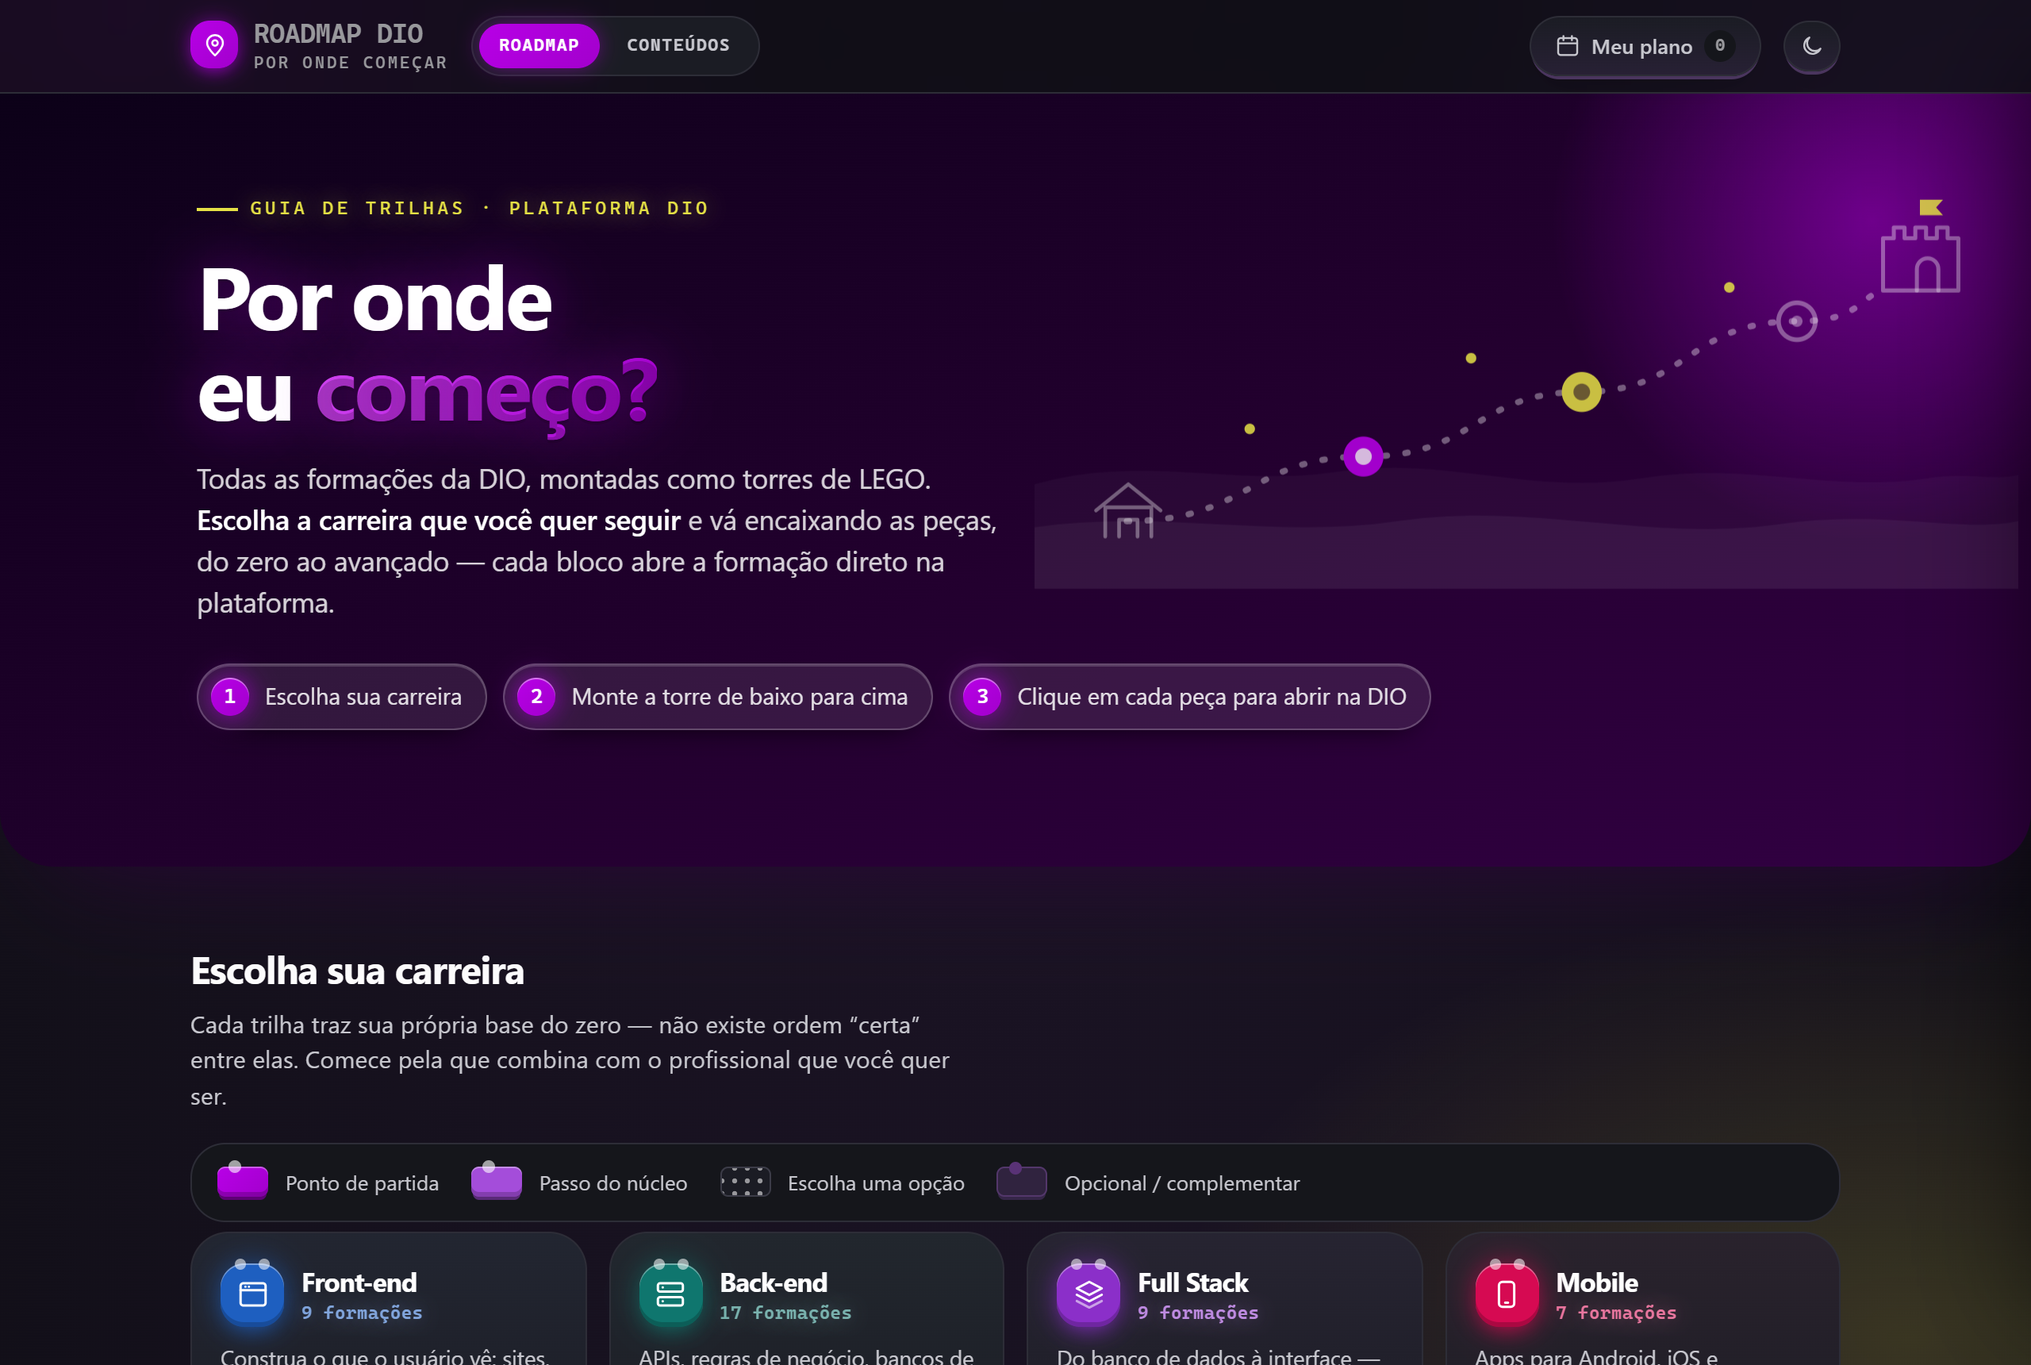
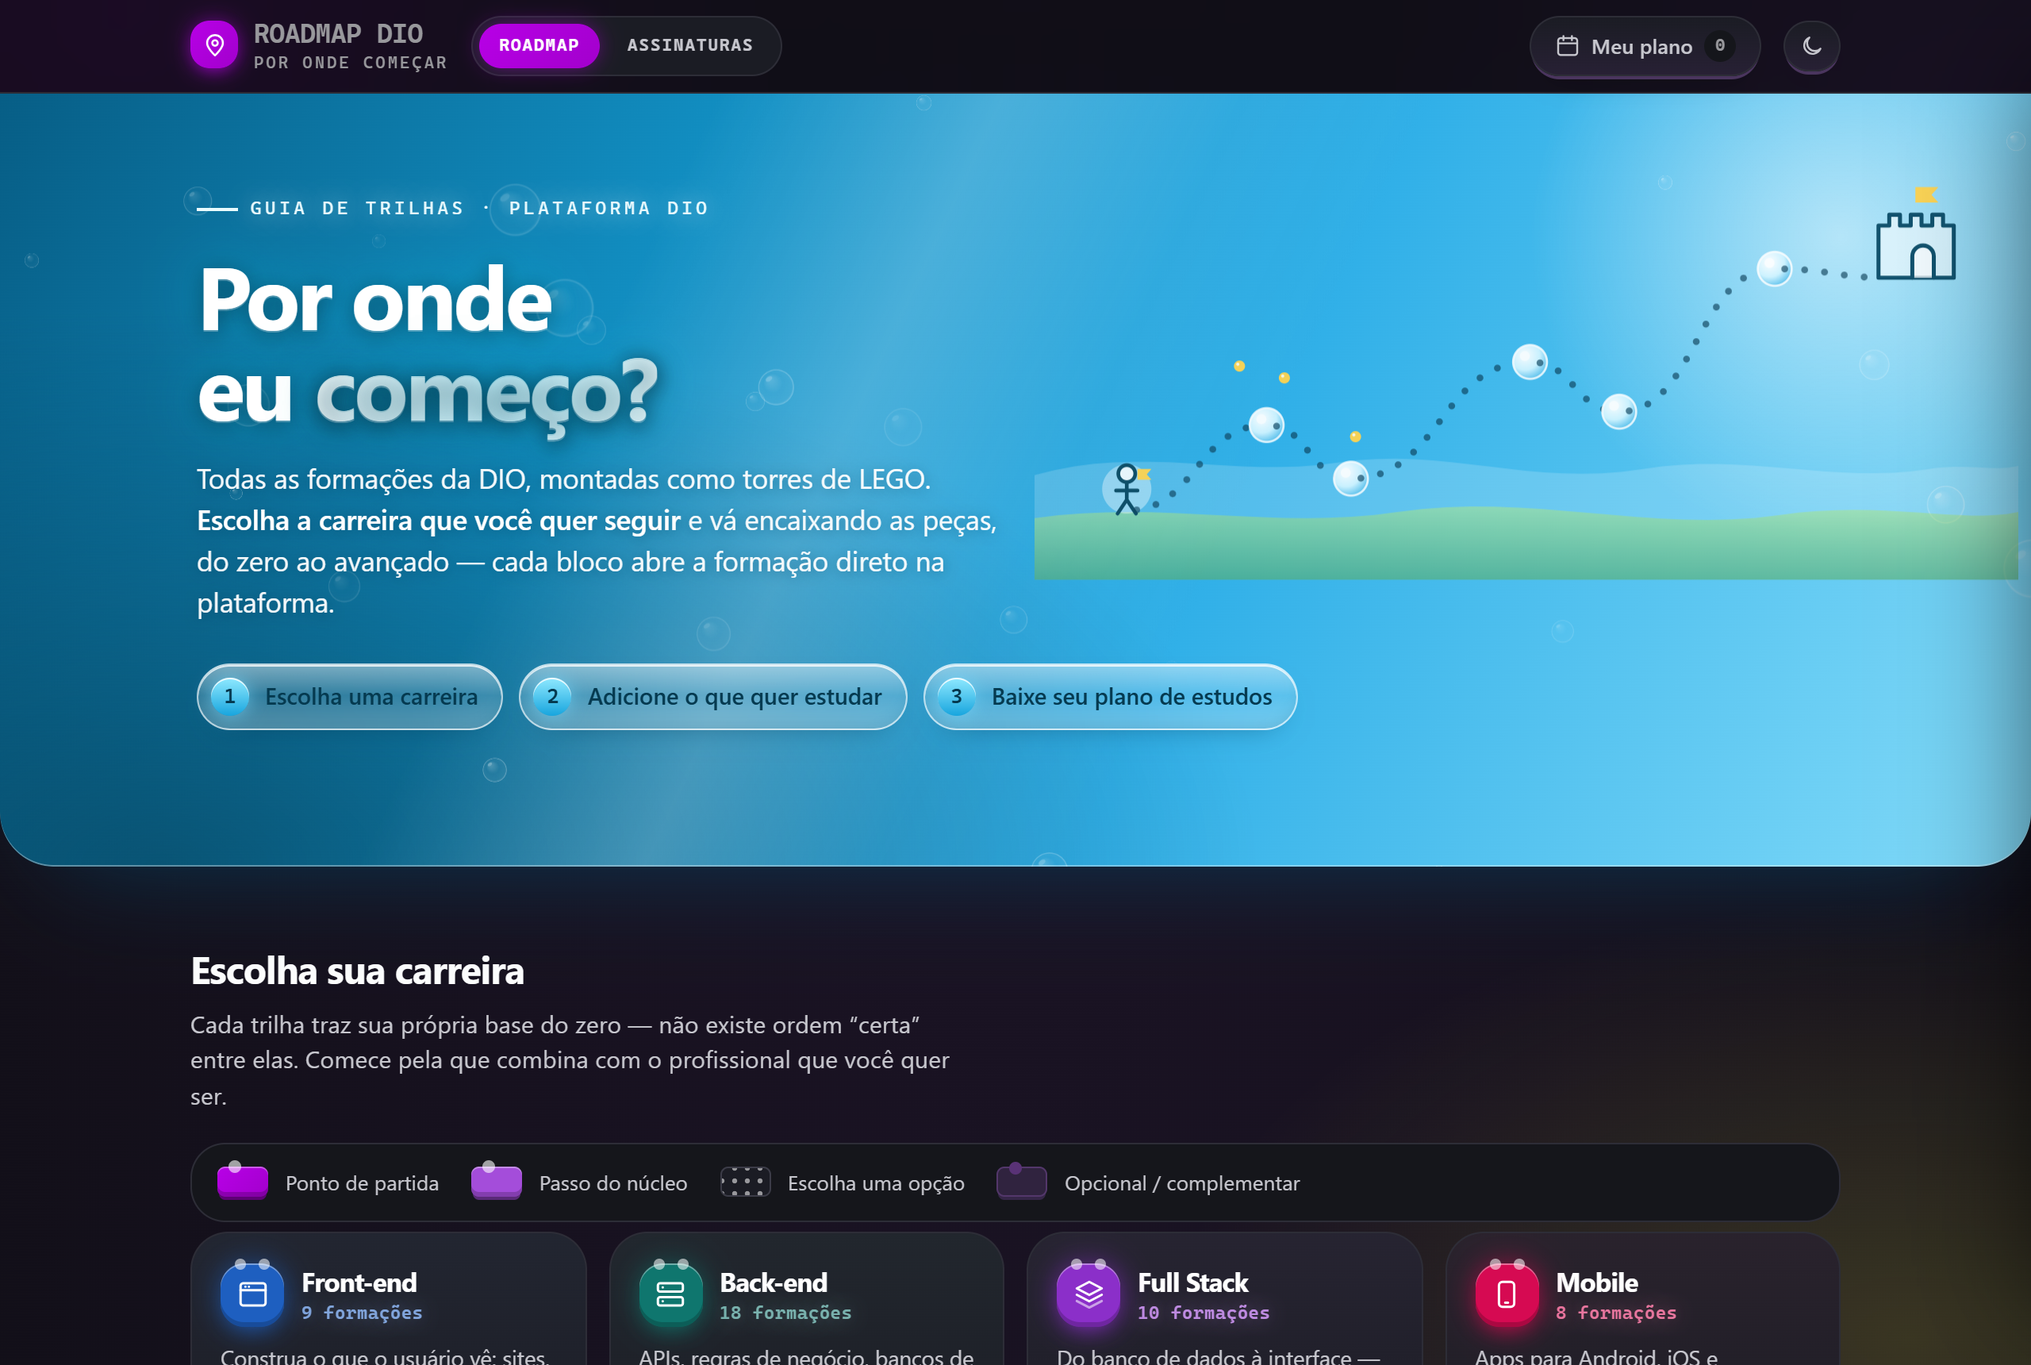
Hero vivo: roadmap animado estilo Mario World + bolhas + Frutiger Aero
- Trilha gerada dinamicamente: herói no início, castelo no fim, fases aleatórias;
  pontos aparecem um a um com pop suave e a trilha regenera em loop
- Partículas: bolhas glossy em canvas atrás do banner (pausam com aba oculta)
- Visual Frutiger Aero aqua/Dreamcast só no hero: céu glossy, sol, gloss sweep,
  chips de vidro; texto branco legível (canto do texto escurecido)
- Reduced-motion: trilha estática completa, sem ciclo e sem partículas
- Corrige transform attr vs CSS (.mnode) separando posição (grupo externo) do pop
- Atualiza prints do README

Claude-Session: https://claude.ai/code/session_01NDBp3KGpNdm6GVd3E32CQM

diff --git a/index.html b/index.html
@@ -77,16 +77,21 @@
   .icon-btn{padding:7px;width:36px;justify-content:center}
 
   /* ---------- hero ---------- */
+  /* hero Frutiger Aero: céu aqua glossy, escuro no canto do texto p/ legibilidade */
   .hero{position:relative;width:100%;margin:0;padding:64px 0 58px;border-radius:0 0 34px 34px;overflow:hidden;
-    background:linear-gradient(155deg,#0C0118 0%,#23002F 55%,#320043 100%);color:#fff;
-    box-shadow:0 30px 70px -38px rgba(48,0,64,.9)}
+    background:
+      radial-gradient(90% 120% at 8% 100%, rgba(4,48,68,.55), transparent 60%),
+      linear-gradient(115deg,#075E86 0%,#1290C4 32%,#31B0E8 60%,#83DBF9 100%);
+    color:#fff;
+    box-shadow:0 30px 70px -38px rgba(7,64,96,.9), inset 0 -1px 0 rgba(255,255,255,.35)}
   .hero-in{position:relative;z-index:2;max-width:1080px;margin:0 auto;padding:0 24px}
   .hero-in>*{position:relative}
-  .hero::before{content:"";position:absolute;right:-130px;top:-150px;width:460px;height:460px;border-radius:50%;
-    background:radial-gradient(circle,rgba(184,0,231,.5),transparent 62%);pointer-events:none;z-index:1}
-  .hero-deco{position:absolute;right:8px;top:22px;bottom:auto;width:min(620px,50%);height:auto;opacity:.85;pointer-events:none;color:rgba(255,255,255,.42);z-index:1}
-  .hero-deco .mag{color:var(--mag-a)}
-  .hero-deco .gold{color:var(--gold)}
+  .hero::before{content:"";position:absolute;right:-110px;top:-140px;width:460px;height:460px;border-radius:50%;
+    background:radial-gradient(circle,rgba(255,255,255,.55),transparent 60%);pointer-events:none;z-index:1}
+  .hero::after{content:"";position:absolute;inset:0;z-index:1;pointer-events:none;
+    background:linear-gradient(115deg,transparent 30%,rgba(255,255,255,.20) 42%,rgba(255,255,255,.04) 52%,transparent 60%)}
+  .hero-bubbles{position:absolute;inset:0;width:100%;height:100%;z-index:0;pointer-events:none}
+  .hero-deco{position:absolute;right:8px;top:22px;bottom:auto;width:min(620px,50%);height:auto;opacity:.95;pointer-events:none;color:rgba(7,58,84,.55);z-index:1}
   @media (max-width:820px){.hero-deco{display:none}}
   .eyebrow{font-family:var(--mono);font-size:.72rem;letter-spacing:.2em;text-transform:uppercase;
     color:var(--gold);display:flex;align-items:center;gap:8px;margin-bottom:16px}
@@ -350,6 +355,7 @@
   @media (prefers-reduced-motion:reduce){
     .hero-deco,footer a.dio,.brick.base{animation:none !important}
     .card:hover,.tbtn:hover,.tbtn:active{transform:none !important}
+    .mnode,.mdot{transition:none !important}
   }
 
   /* ============================================================
@@ -508,6 +514,33 @@
     .topbar-in{flex-wrap:wrap}
     .tabs{order:10;width:100%;justify-content:center}
   }
+
+  /* ============================================================
+     AERO HERO — overrides Frutiger Aero (só no hero) + mapa vivo
+     ============================================================ */
+  .hero h1{text-shadow:0 1px 0 rgba(255,255,255,.28),0 2px 14px rgba(3,48,66,.6),0 0 34px rgba(0,229,255,.35)}
+  .hero h1 .u{background:linear-gradient(100deg,#FFFFFF,#BDF0FF 55%,#E9FBFF);-webkit-background-clip:text;background-clip:text;
+    color:transparent;filter:drop-shadow(0 2px 6px rgba(4,60,84,.65))}
+  .hero .eyebrow{color:#EAFBFF;text-shadow:0 0 14px rgba(255,255,255,.65)}
+  .hero .eyebrow::before{background:#EAFBFF}
+  .hero .lede{color:rgba(255,255,255,.95);text-shadow:0 1px 8px rgba(6,58,84,.5)}
+  .hero .step-chip{color:#053A50;font-weight:600;border:1px solid rgba(255,255,255,.6);
+    background:linear-gradient(180deg,rgba(255,255,255,.45),rgba(255,255,255,.16) 48%,rgba(255,255,255,.3));
+    -webkit-backdrop-filter:blur(6px);backdrop-filter:blur(6px);
+    box-shadow:inset 0 1px 0 rgba(255,255,255,.8),inset 0 -6px 12px -8px rgba(6,90,120,.35),0 8px 18px -12px rgba(4,60,90,.55)}
+  .hero .step-chip .n{background:linear-gradient(180deg,#8FE9FF,#18A5DE);color:#04384E;
+    box-shadow:inset 0 1px 0 rgba(255,255,255,.85),0 0 12px rgba(120,220,255,.7)}
+
+  /* mapa vivo: nós/pontinhos aparecem com pop suave */
+  .mnode,.mdot{opacity:0;transform:scale(.2);transform-box:fill-box;transform-origin:center;
+    transition:transform .38s cubic-bezier(.34,1.56,.64,1),opacity .22s ease}
+  .mdot{transition-duration:.3s,.18s}
+  .mnode.on,.mdot.on{opacity:1;transform:scale(1)}
+  #mapTrail{transition:opacity .4s ease}
+  #mapTrail.out{opacity:0}
+  .spark{opacity:0;transform-box:fill-box;transform-origin:center}
+  .spark.on{animation:sparkFly .7s ease-out forwards}
+  @keyframes sparkFly{from{opacity:1;transform:translate(0,0)}to{opacity:0;transform:translate(var(--dx),var(--dy)) scale(.4)}}
 </style>
 
 <header class="topbar">
@@ -541,44 +574,27 @@
 </header>
 
 <section class="hero">
+    <canvas class="hero-bubbles" id="heroBubbles" aria-hidden="true"></canvas>
     <svg class="hero-deco" viewBox="0 0 640 300" fill="none" aria-hidden="true">
-      <!-- terreno: colinas do mapa -->
-      <path d="M0 300 V232 C 70 212 130 234 196 224 C 268 213 322 240 396 228 C 462 217 520 238 582 228 C 606 224 624 230 640 226 V300 Z" fill="currentColor" opacity=".08"/>
-      <path d="M0 300 V260 C 84 248 156 268 236 256 C 322 243 402 270 484 258 C 554 248 602 264 640 256 V300 Z" fill="currentColor" opacity=".13"/>
-      <!-- trilha sinuosa pontilhada (world map) -->
-      <path d="M60 256 C 140 256 140 214 214 214 C 288 214 286 172 356 172 C 426 172 424 126 496 126 C 540 126 536 108 554 106"
-        stroke="currentColor" stroke-width="4" stroke-dasharray="1.5 12" stroke-linecap="round"/>
-      <!-- casa inicial (ponto de partida) -->
-      <g stroke="currentColor" stroke-width="2.4" stroke-linejoin="round" stroke-linecap="round">
-        <path d="M46 266 v-19 h30 v19"/>
-        <path d="M40 249 l21 -17 21 17"/>
-        <path d="M55 266 v-11 h12 v11"/>
+      <defs>
+        <radialGradient id="orbG" cx=".35" cy=".3" r=".8">
+          <stop offset="0" stop-color="#fff"/><stop offset=".55" stop-color="#CFF3FF"/><stop offset="1" stop-color="#45B7E8"/>
+        </radialGradient>
+        <linearGradient id="hillG" x1="0" y1="0" x2="0" y2="1">
+          <stop offset="0" stop-color="#B7EC7A"/><stop offset="1" stop-color="#3E9E45"/>
+        </linearGradient>
+        <!-- castelo com origem no fim da trilha (deslocado de 560,106) -->
+        <g id="castleTpl" stroke="#0A4B66" stroke-width="2.6" stroke-linejoin="round" stroke-linecap="round">
+          <path d="M-8 0 V-34 h7 v-7 h7 v7 h7 v-7 h7 v7 h7 v-7 h7 v7 h7 V0 Z" fill="rgba(255,255,255,.6)"/>
+          <path d="M14 0 V-14 a7 7 0 0 1 14 0 v14" fill="rgba(255,255,255,.75)"/>
+          <path d="M16 -41 v-18 h15 l-4.5 5 4.5 5 h-15" fill="#FFD34D" stroke="none"/>
+        </g>
+      </defs>
+      <g id="mapTerrain">
+        <path d="M0 300 V232 C 70 212 130 234 196 224 C 268 213 322 240 396 228 C 462 217 520 238 582 228 C 606 224 624 230 640 226 V300 Z" fill="#fff" opacity=".18"/>
+        <path d="M0 300 V260 C 84 248 156 268 236 256 C 322 243 402 270 484 258 C 554 248 602 264 640 256 V300 Z" fill="url(#hillG)" opacity=".5"/>
       </g>
-      <!-- fase concluída A -->
-      <g class="mag">
-        <circle cx="214" cy="214" r="13" fill="currentColor"/>
-        <circle cx="214" cy="214" r="5.4" fill="#fff" opacity=".85"/>
-      </g>
-      <!-- fase concluída B -->
-      <g class="gold">
-        <circle cx="356" cy="172" r="13" fill="currentColor"/>
-        <circle cx="356" cy="172" r="5.4" fill="#1A0322" opacity=".55"/>
-      </g>
-      <!-- próxima fase C -->
-      <circle cx="496" cy="126" r="12" stroke="currentColor" stroke-width="3"/>
-      <circle cx="496" cy="126" r="3.6" fill="currentColor"/>
-      <!-- moedas flutuantes -->
-      <g class="gold" fill="currentColor">
-        <circle cx="140" cy="196" r="3.4"/>
-        <circle cx="284" cy="150" r="3.4"/>
-        <circle cx="452" cy="104" r="3.4"/>
-      </g>
-      <!-- castelo (destino final) -->
-      <g stroke="currentColor" stroke-width="2.6" stroke-linejoin="round" stroke-linecap="round">
-        <path d="M552 106 V72 h7 v-7 h7 v7 h7 v-7 h7 v7 h7 v-7 h7 v7 h7 V106 Z"/>
-        <path d="M574 106 V92 a7 7 0 0 1 14 0 v14"/>
-      </g>
-      <path class="gold" d="M576 65 v-18 h15 l-4.5 5 4.5 5 h-15" fill="currentColor"/>
+      <g id="mapTrail"></g>
     </svg>
 
     <div class="hero-in">
@@ -1210,5 +1226,208 @@ backLink.addEventListener('click',function(){
   });
 
   syncButtons(); updateCount();
+})();
+
+/* ---------- hero: mapa vivo estilo Mario World ---------- */
+(function(){
+  var SVGNS='http://www.w3.org/2000/svg';
+  var layer=document.getElementById('mapTrail');
+  if(!layer) return;
+  var reduce=window.matchMedia&&window.matchMedia('(prefers-reduced-motion:reduce)').matches;
+  var mqSmall=window.matchMedia?window.matchMedia('(max-width:820px)'):{matches:false};
+
+  var timers=[];
+  function later(fn,ms){ timers.push(setTimeout(fn,ms)); }
+  function stopMap(){ timers.forEach(clearTimeout); timers=[]; }
+
+  function clamp(v,a,b){ return v<a?a:(v>b?b:v); }
+  function genWaypoints(){
+    var N=3+Math.floor(Math.random()*3);
+    var sx=60,sy=255,ex=545+Math.random()*25,ey=98+Math.random()*14;
+    var pts=[{x:sx,y:sy}],i;
+    for(i=1;i<=N;i++){
+      var t=i/(N+1);
+      var x=sx+t*(ex-sx)+(Math.random()*44-22);
+      var base=sy+t*(ey-sy);
+      var dir=(i%2?-1:1);
+      pts.push({x:x,y:clamp(base+dir*(18+Math.random()*20),70,265)});
+    }
+    pts.push({x:ex,y:ey});
+    for(i=1;i<pts.length;i++) if(pts[i].x-pts[i-1].x<48) pts[i].x=pts[i-1].x+48;
+    return pts;
+  }
+  function segD(a,b){ var mx=(a.x+b.x)/2;
+    return 'M'+a.x+' '+a.y+' C '+mx+' '+a.y+', '+mx+' '+b.y+', '+b.x+' '+b.y; }
+  function el(name,attrs,cls){
+    var e=document.createElementNS(SVGNS,name);
+    for(var k in attrs) e.setAttribute(k,attrs[k]);
+    if(cls) e.setAttribute('class',cls);
+    return e;
+  }
+  function sampleDots(d){
+    var p=el('path',{d:d,fill:'none',stroke:'none'});
+    layer.appendChild(p);
+    var L=p.getTotalLength(),out=[],s;
+    for(s=6.5;s<L-6;s+=13){ var pt=p.getPointAtLength(s); out.push({x:pt.x,y:pt.y}); }
+    return out;
+  }
+
+  function buildTrail(pts){
+    var built={segDots:[],orbs:[],coins:[],sparks:[]};
+    /* herói no início — posição no grupo externo (atributo), pop no interno
+       (a classe .mnode usa transform via CSS, que sobrepõe o atributo transform) */
+    var heroPos=el('g',{transform:'translate('+pts[0].x+' '+pts[0].y+')'});
+    var hero=el('g',{stroke:'#06465F','stroke-width':'2.4','stroke-linecap':'round','stroke-linejoin':'round',fill:'none'},'mnode');
+    hero.appendChild(el('circle',{cx:0,cy:-14,r:16,fill:'rgba(255,255,255,.4)',stroke:'none'}));
+    hero.appendChild(el('circle',{cx:0,cy:-24,r:5.5,fill:'rgba(255,255,255,.85)'}));
+    hero.appendChild(el('path',{d:'M0 -18 v11 M0 -7 l-6 9 M0 -7 l6 9 M-7 -13 h14'}));
+    hero.appendChild(el('path',{d:'M7 -13 v-14 h9 l-3 3.5 3 3.5 h-9',fill:'#FFD34D',stroke:'none'}));
+    heroPos.appendChild(hero); layer.appendChild(heroPos); built.hero=hero;
+
+    var i,j;
+    for(i=0;i<pts.length-1;i++){
+      var dots=sampleDots(segD(pts[i],pts[i+1])),dotEls=[];
+      for(j=0;j<dots.length;j++){
+        var dot=el('circle',{cx:dots[j].x,cy:dots[j].y,r:2.2,fill:'rgba(7,58,84,.65)'},'mdot');
+        layer.appendChild(dot); dotEls.push(dot);
+      }
+      built.segDots.push(dotEls);
+      if(i<pts.length-2){
+        var orb=el('g',{},'mnode');
+        orb.appendChild(el('circle',{cx:pts[i+1].x,cy:pts[i+1].y,r:11,fill:'url(#orbG)',stroke:'rgba(255,255,255,.85)','stroke-width':'1.4'}));
+        orb.appendChild(el('circle',{cx:pts[i+1].x-3.4,cy:pts[i+1].y-3.8,r:3.2,fill:'#fff',opacity:'.9'}));
+        layer.appendChild(orb); built.orbs.push(orb);
+      }
+    }
+    /* moedas: 2-3 acima de pontos aleatórios do meio */
+    var coinN=2+Math.floor(Math.random()*2);
+    for(i=0;i<coinN;i++){
+      var wp=pts[1+Math.floor(Math.random()*(pts.length-2))];
+      var cx=wp.x+(Math.random()*46-23),cy=wp.y-(24+Math.random()*20);
+      var coin=el('g',{},'mnode');
+      coin.appendChild(el('circle',{cx:cx,cy:cy,r:3.6,fill:'#FFD34D'}));
+      coin.appendChild(el('circle',{cx:cx-1.1,cy:cy-1.2,r:1,fill:'#fff',opacity:'.85'}));
+      layer.appendChild(coin); built.coins.push(coin);
+    }
+    /* castelo no fim + sparks (mesmo padrão: posição fora, pop dentro) */
+    var end=pts[pts.length-1];
+    var castlePos=el('g',{transform:'translate('+end.x+' '+end.y+')'});
+    var castle=el('use',{},'mnode');
+    castle.setAttribute('href','#castleTpl');
+    castle.setAttributeNS('http://www.w3.org/1999/xlink','xlink:href','#castleTpl');
+    castlePos.appendChild(castle); layer.appendChild(castlePos); built.castle=castle;
+    for(i=0;i<6;i++){
+      var ang=Math.PI*2*i/6, dist=26+Math.random()*14;
+      var sp=el('circle',{cx:end.x,cy:end.y-22,r:2.6,fill:'#FFD34D'},'spark');
+      sp.style.setProperty('--dx',Math.cos(ang)*dist+'px');
+      sp.style.setProperty('--dy',(Math.sin(ang)*dist-8)+'px');
+      layer.appendChild(sp); built.sparks.push(sp);
+    }
+    return built;
+  }
+  function on(e){ e.classList.add('on'); }
+
+  function runCycle(){
+    stopMap();
+    layer.classList.remove('out');
+    layer.innerHTML='';
+    var pts=genWaypoints();
+    var b=buildTrail(pts);
+    var t=200;
+    later(function(){ on(b.hero); },t);
+    t+=300;
+    b.segDots.forEach(function(dotEls,i){
+      t+=150;
+      dotEls.forEach(function(dot,j){
+        (function(dd,tt){ later(function(){ on(dd); },tt); })(dot,t+j*28);
+      });
+      t+=dotEls.length*28+60;
+      if(i<b.orbs.length){
+        (function(o,tt){ later(function(){ on(o); },tt); })(b.orbs[i],t);
+        t+=240;
+      }
+    });
+    later(function(){
+      on(b.castle);
+      b.sparks.forEach(on);
+      b.coins.forEach(on);
+    },t);
+    t+=600;
+    t+=2600; /* hold */
+    later(function(){ layer.classList.add('out'); },t);
+    later(runCycle,t+450);
+  }
+
+  function staticTrail(){
+    stopMap(); layer.classList.remove('out'); layer.innerHTML='';
+    var b=buildTrail(genWaypoints());
+    on(b.hero); on(b.castle);
+    b.segDots.forEach(function(ds){ ds.forEach(on); });
+    b.orbs.forEach(on); b.coins.forEach(on);
+  }
+
+  function start(){ if(reduce){ staticTrail(); } else if(!mqSmall.matches){ runCycle(); } }
+  document.addEventListener('visibilitychange',function(){
+    if(reduce) return;
+    if(document.hidden) stopMap();
+    else if(!mqSmall.matches) runCycle();
+  });
+  if(mqSmall.addEventListener) mqSmall.addEventListener('change',function(){ if(reduce) return; if(mqSmall.matches) stopMap(); else runCycle(); });
+  else if(mqSmall.addListener) mqSmall.addListener(function(){ if(reduce) return; if(mqSmall.matches) stopMap(); else runCycle(); });
+  start();
+})();
+
+/* ---------- hero: bolhas Frutiger Aero (canvas) ---------- */
+(function(){
+  var canvas=document.getElementById('heroBubbles');
+  var hero=document.querySelector('.hero');
+  if(!canvas||!hero) return;
+  if(window.matchMedia&&window.matchMedia('(prefers-reduced-motion:reduce)').matches) return;
+  var ctx=canvas.getContext('2d');
+  var sprite=(function(){
+    var s=64,c=document.createElement('canvas');c.width=c.height=s;
+    var x=c.getContext('2d'),cx=32,cy=32,r=29;
+    var g=x.createRadialGradient(cx-10,cy-13,3,cx,cy,r);
+    g.addColorStop(0,'rgba(255,255,255,.5)');g.addColorStop(.5,'rgba(255,255,255,.06)');
+    g.addColorStop(.92,'rgba(255,255,255,.12)');g.addColorStop(1,'rgba(255,255,255,.5)');
+    x.fillStyle=g;x.beginPath();x.arc(cx,cy,r,0,7);x.fill();
+    x.strokeStyle='rgba(255,255,255,.75)';x.lineWidth=1.5;x.stroke();
+    x.fillStyle='rgba(255,255,255,.9)';
+    x.beginPath();x.ellipse(cx-12,cy-14,6,3.6,-.6,0,7);x.fill();
+    return c;
+  })();
+  var W=0,H=0,bubbles=[],raf=0,last=0,resizeT=0;
+  function rand(a,b){ return a+Math.random()*(b-a); }
+  function spawn(anyY){
+    return {x:rand(0,W),y:anyY?rand(0,H):H+rand(6,40),r:rand(4,20),
+      v:rand(10,26),amp:rand(4,12),f:rand(.4,1.1),ph:rand(0,6.28),a:rand(.14,.4)};
+  }
+  function size(){
+    W=hero.clientWidth;H=hero.clientHeight;
+    var dpr=Math.min(window.devicePixelRatio||1,2);
+    canvas.width=W*dpr;canvas.height=H*dpr;
+    ctx.setTransform(dpr,0,0,dpr,0,0);
+    var n=Math.min(26,Math.max(8,Math.round(W/48)));
+    bubbles=[];for(var i=0;i<n;i++) bubbles.push(spawn(true));
+  }
+  function frame(now){
+    var dt=Math.min(.05,(now-last)/1000)||.016;last=now;
+    ctx.clearRect(0,0,W,H);
+    for(var i=0;i<bubbles.length;i++){
+      var b=bubbles[i];
+      b.y-=b.v*dt;
+      if(b.y<-2*b.r) bubbles[i]=b=spawn(false);
+      var x=b.x+Math.sin(now/1000*b.f+b.ph)*b.amp;
+      ctx.globalAlpha=b.a;
+      ctx.drawImage(sprite,x-b.r,b.y-b.r,b.r*2,b.r*2);
+    }
+    ctx.globalAlpha=1;
+    raf=requestAnimationFrame(frame);
+  }
+  function play(){ if(!raf){ last=performance.now(); raf=requestAnimationFrame(frame); } }
+  function stop(){ if(raf){ cancelAnimationFrame(raf); raf=0; } }
+  window.addEventListener('resize',function(){ clearTimeout(resizeT); resizeT=setTimeout(size,150); });
+  document.addEventListener('visibilitychange',function(){ document.hidden?stop():play(); });
+  size(); play();
 })();
 </script>
